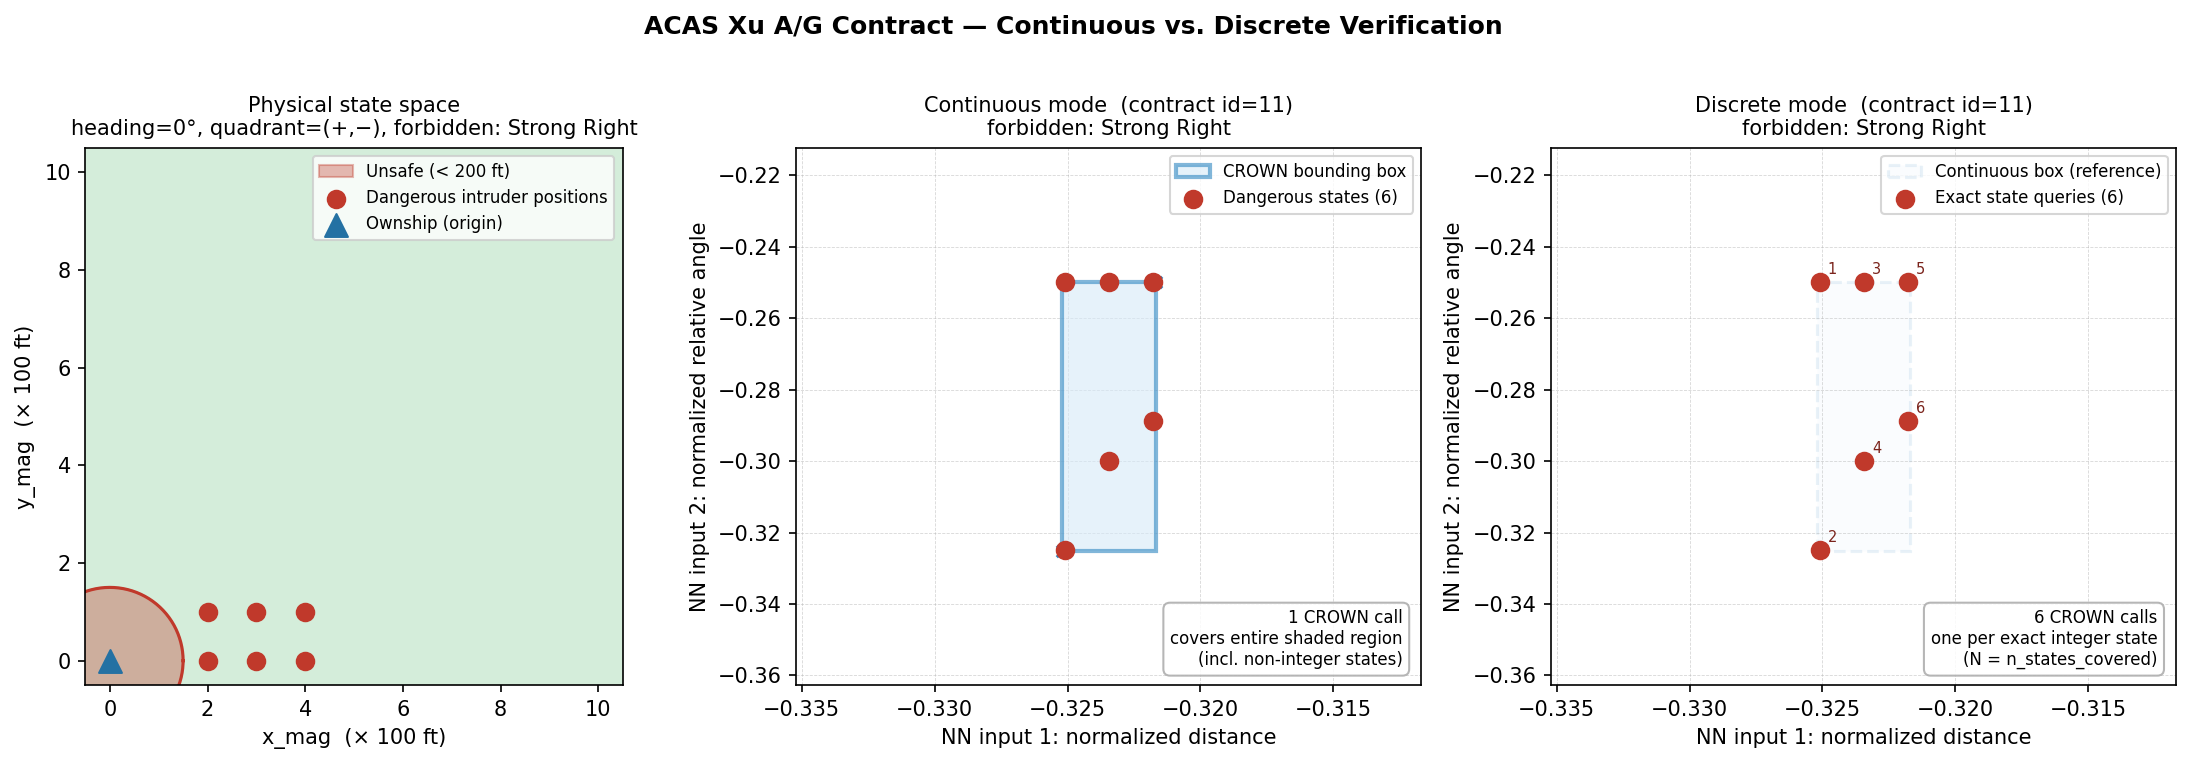
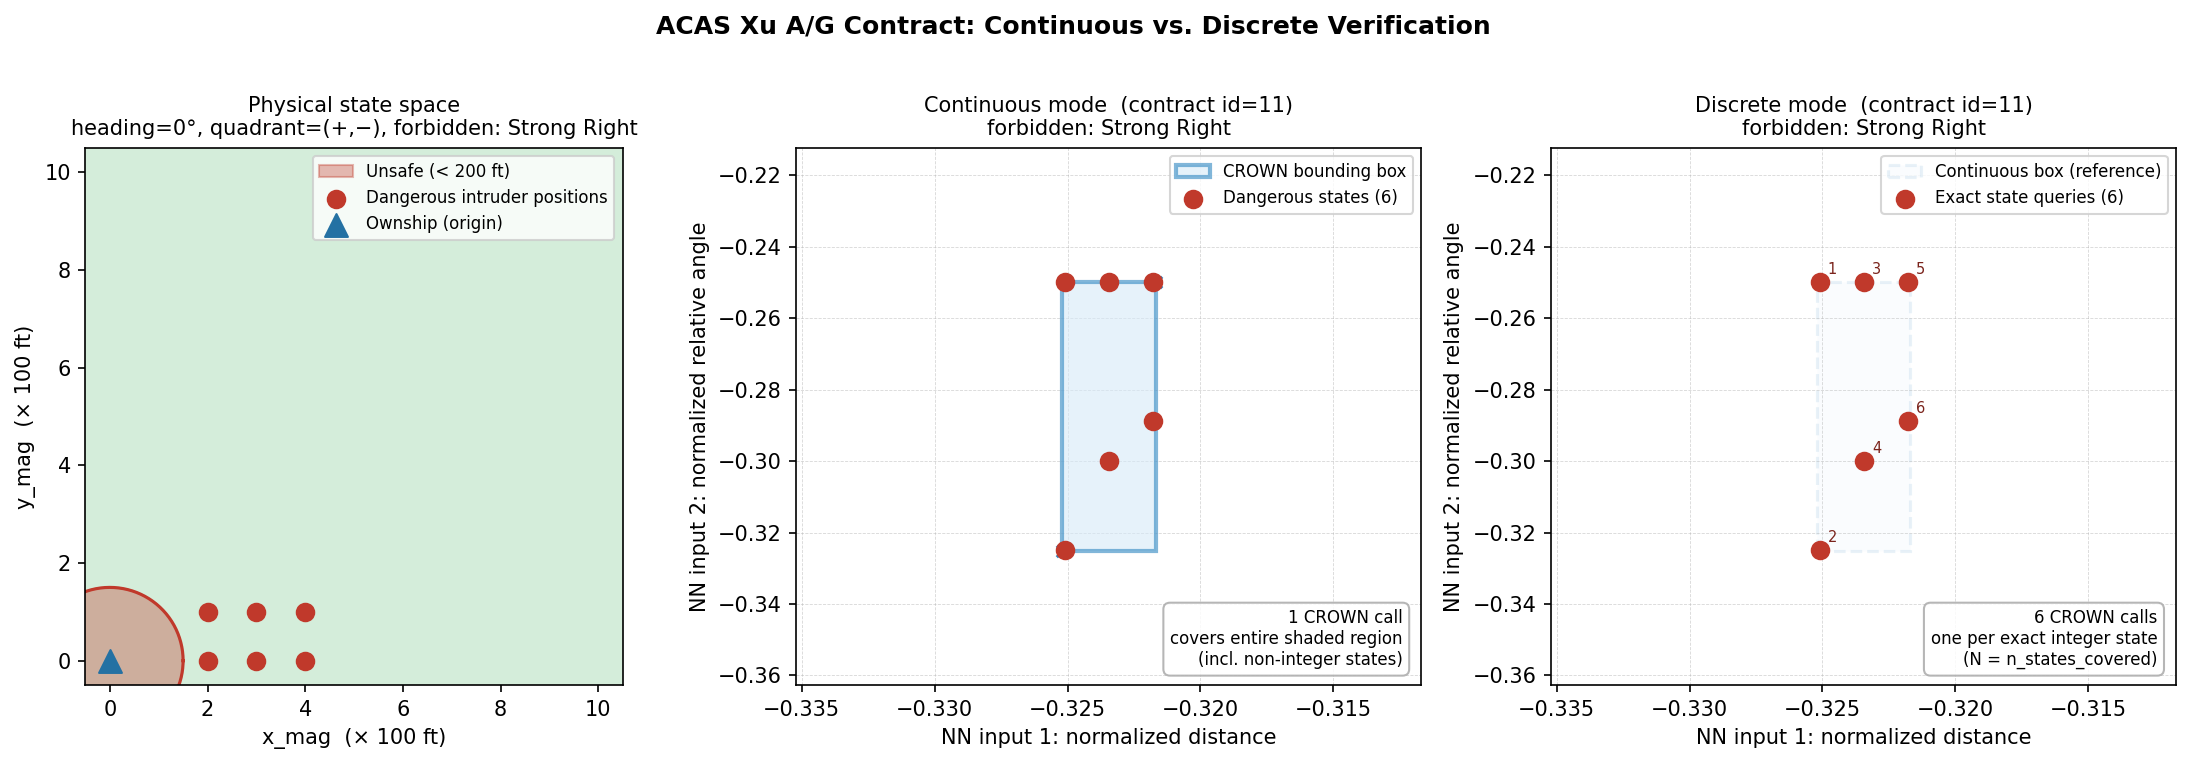
Fix ACAS-03: Make ACAS Xu discrete vs continuous contract visualization work after refactor

Changed region(s): [[0.2793, 0.0, 0.6828, 0.0602]]

diff --git a/REPRODUCIBILITY/2026_TBA/examples/AcasXu_closed_loop/figures/image_scripts/acas_discrete_vs_continuous.py b/REPRODUCIBILITY/2026_TBA/examples/AcasXu_closed_loop/figures/image_scripts/acas_discrete_vs_continuous.py
@@ -18,7 +18,7 @@ Usage:
     python3 figures/image_scripts/acas_discrete_vs_continuous.py --contract-id 42
 
 Defaults:
-    --specs        ../../contracts/continuous_goals/contract_specs_eps1e4.json
+    --specs        ../../contracts/crown/continuous_goals/contract_specs_eps1e4.json
     --output       ../acas_discrete_vs_continuous.png
     --contract-id  (auto: first contract with n_states_covered >= 5)
 """
@@ -294,7 +294,7 @@ def main() -> None:
     )
     parser.add_argument(
         "--specs", type=Path,
-        default=here / "../../contracts/continuous_goals/contract_specs_eps1e4.json",
+        default=here / "../../contracts/crown/continuous_goals/contract_specs_eps1e4.json",
     )
     parser.add_argument(
         "--output", type=Path,
@@ -331,7 +331,7 @@ def main() -> None:
     plot_discrete(ax_disc, contract, pts, xlim_pair, ylim_pair)
 
     fig.suptitle(
-        "ACAS Xu A/G Contract — Continuous vs. Discrete Verification",
+        "ACAS Xu A/G Contract: Continuous vs. Discrete Verification",
         fontsize=12, fontweight="bold", y=1.01,
     )
 
